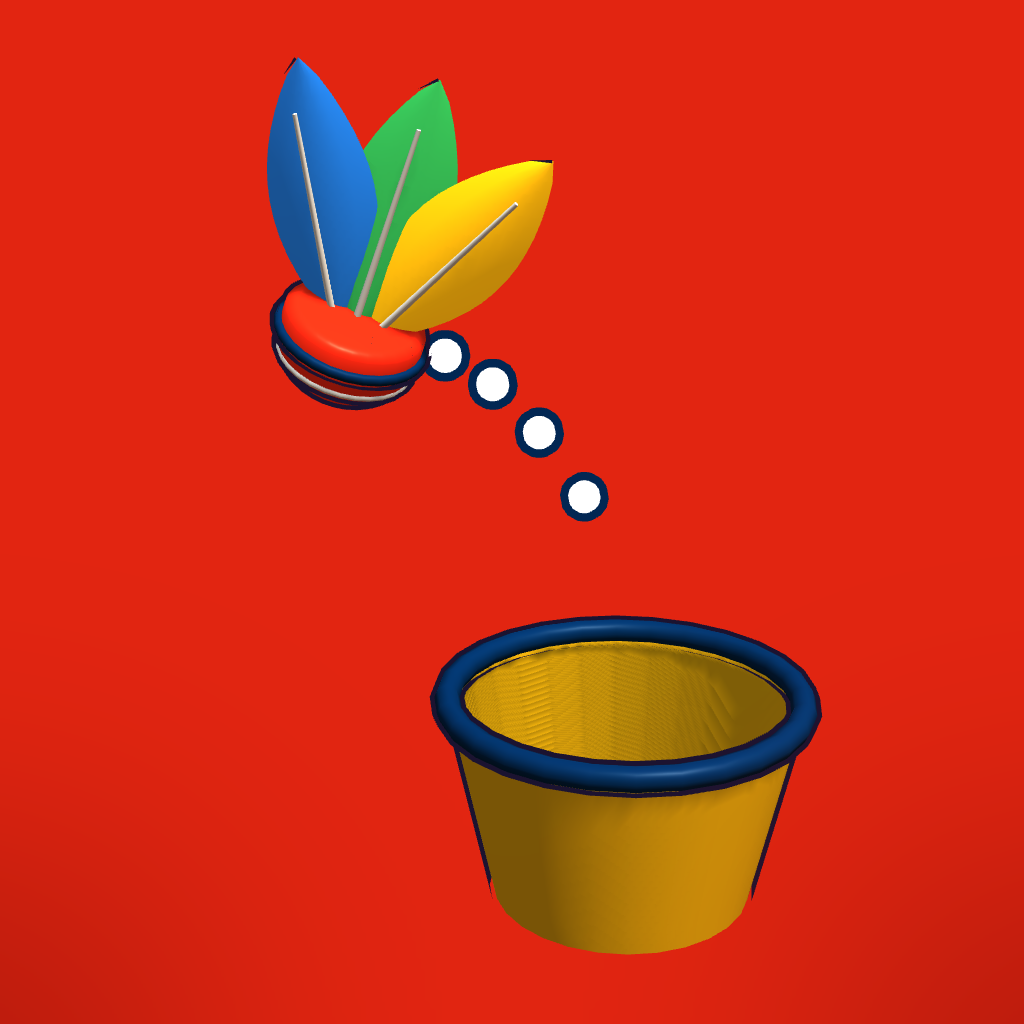
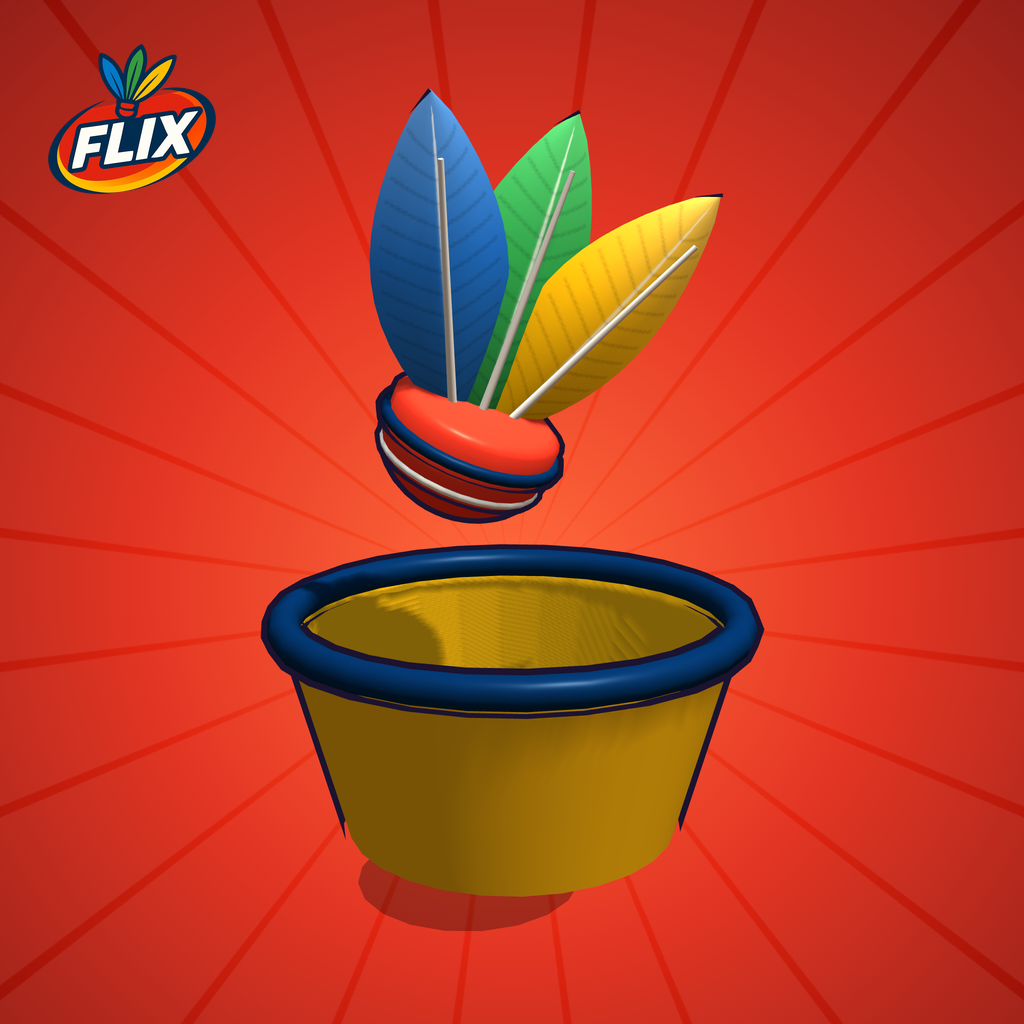
Flix Atış: uygulama simgesi ve App Store görselleri (TR/EN, 6.9 ve 6.5)
Claude-Session: https://claude.ai/code/session_01NZHKXGjep5VcQTYmRzsBXS

diff --git a/atis/app/store/appstore/kaynak/frame.html b/atis/app/store/appstore/kaynak/frame.html
@@ -1,0 +1,44 @@
+<!doctype html><html><head><meta charset="utf-8">
+<link href="https://fonts.googleapis.com/css2?family=Barlow+Condensed:wght@800;900&family=Inter:wght@500;600&display=block" rel="stylesheet">
+<style>
+*{margin:0;padding:0;box-sizing:border-box}
+body{width:430px;height:932px;overflow:hidden;font-family:Inter,sans-serif}
+#f{position:absolute;inset:0;overflow:hidden;background:#d81f10}
+.sun{position:absolute;left:50%;top:560px;width:1400px;height:1400px;margin:-700px 0 0 -700px;background:repeating-conic-gradient(from 0deg,rgba(255,255,255,.07) 0 9deg,transparent 9deg 18deg);border-radius:50%}
+.glow{position:absolute;inset:0;background:radial-gradient(ellipse at 50% 62%,rgba(255,190,40,.35),transparent 55%),linear-gradient(180deg,rgba(120,0,0,.25),transparent 30%,transparent 70%,rgba(80,0,10,.45))}
+.head{position:absolute;left:26px;right:26px;top:30px}
+.top{display:flex;justify-content:space-between;align-items:center;margin-bottom:16px}
+.top img{height:40px;filter:drop-shadow(0 2px 3px rgba(0,0,0,.3))}
+.k{font-size:11px;font-weight:600;letter-spacing:.16em;text-transform:uppercase;color:#ffc61a;background:#022753;border-radius:4px;padding:6px 10px;transform:skewX(-8deg)}
+.cap{font-family:'Barlow Condensed';font-weight:900;font-size:56px;line-height:.92;color:#fff;text-transform:uppercase;letter-spacing:.2px;text-shadow:0 3px 0 #8a0f05}
+.cap b{color:#ffc61a;font-weight:900}
+.sub{margin-top:12px;font-size:15px;font-weight:600;color:rgba(255,255,255,.92);line-height:1.38}
+.ph{position:absolute;left:50%;top:268px;width:356px;height:770px;margin-left:-178px;border-radius:56px;background:#05070f;padding:9px;box-shadow:0 0 0 3px #022753,0 0 0 6px #ffc61a,0 30px 60px rgba(60,0,0,.5)}
+.w{width:338px;height:732px;border-radius:47px;overflow:hidden;background:#0a1230}
+.w img{width:338px;display:block}
+</style></head><body>
+<div id="f"><div class="sun"></div><div class="glow"></div>
+<div class="head"><div class="top"><img src="logo.png"><span class="k" id="k"></span></div><div class="cap" id="c"></div><div class="sub" id="s"></div></div>
+<div class="ph"><div class="w"><img id="shot"></div></div></div>
+<script>
+const q=new URLSearchParams(location.search),N=+q.get('s'),L=q.get('l');document.documentElement.lang=L;
+const ORD={1:'1',2:'2',3:'7',4:'4',5:'5',6:'6',7:'6b',8:'8'};
+const T={tr:{1:['Flix Atış','Çek, nişan al,<br><b>kovaya at!</b>','Parmağını aşağı çek, gücü ayarla, FLIX’i kovaya fırlat.'],
+2:['Tüy aç','Havada<br><b>tüyünü aç</b>','Basılı tut, FLIX süzülsün. Rüzgârı ve köprüleri hesaba kat.'],
+3:['9 harita','9 harita,<br><b>180 bölüm</b>','Sokaktan Türkiye’ye, Asya’dan Antarktika’ya. Bölümlerin hepsi ücretsiz.'],
+4:['Amerika','Gökdelenler,<br><b>sarı taksiler</b>','Yangın merdivenleri ve neon tabelalar arasından kovayı bul.'],
+5:['Afrika','Savan köyü,<br><b>baobab ağaçları</b>','Kulübeler, akasyalar ve piramitler. Her harita kendi dünyası.'],
+6:['Uzay','Ayda<br><b>az yerçekimi</b>','Cam kubbeler, roketler, uzaylılar. FLIX çok daha uzağa uçar.'],
+7:['Antarktika','Buzda<br><b>sektir!</b>','İglolar ve kardan adamlar arasında duvardan sektirerek at.'],
+8:['Dükkân','Desenli FLIX’ler,<br><b>yeni kostümler</b>','20 FLIX, uçuş izleri, insan ve hayvan kostümleri.']},
+en:{1:['Flix Flick','Pull, aim,<br><b>flick it in!</b>','Pull down, set the power and launch FLIX into the bucket.'],
+2:['Glide','Open the<br><b>feathers</b>','Hold to glide. Mind the wind and the bridges.'],
+3:['9 worlds','9 worlds,<br><b>180 levels</b>','From the street to Türkiye, from Asia to Antarctica. Every level is free.'],
+4:['America','Skyscrapers,<br><b>yellow cabs</b>','Find the bucket between fire escapes and neon signs.'],
+5:['Africa','Savanna village,<br><b>baobab trees</b>','Huts, acacias and pyramids. Every world feels different.'],
+6:['Space','Low gravity<br><b>on the moon</b>','Glass domes, rockets and aliens. FLIX flies much further.'],
+7:['Antarctica','Bounce it<br><b>off the ice</b>','Bank your shots off walls between igloos and snowmen.'],
+8:['Shop','Patterned FLIX,<br><b>new outfits</b>','20 FLIX skins, flight trails, people and animal outfits.']}};
+const t=T[L][N];k.textContent=t[0];c.innerHTML=t[1];s.textContent=t[2];shot.src='sh/'+ORD[N]+'.png';
+while(c.offsetHeight>110){c.style.fontSize=(parseFloat(getComputedStyle(c).fontSize)-2)+'px'}
+</script></body></html>

diff --git a/atis/app/store/appstore/kaynak/cap.js b/atis/app/store/appstore/kaynak/cap.js
@@ -1,0 +1,34 @@
+const {chromium}=require('playwright');
+const W=390,H=844;
+(async()=>{const b=await chromium.launch({args:['--use-gl=angle','--use-angle=swiftshader','--enable-unsafe-swiftshader']});
+const p=await b.newPage({viewport:{width:W,height:H},deviceScaleFactor:2.6,hasTouch:false});
+p.on('pageerror',e=>console.log('ERR',e.message));
+await p.goto('file://'+__dirname+'/../test8.html',{waitUntil:'domcontentloaded'});await p.waitForTimeout(4000);
+await p.evaluate(()=>{const S=__A.SAVE;S.fe=2450;S.tut=1;S.tutDone=1;for(let i=0;i<9;i++){S.wOwn=S.wOwn||{};S.wOwn[i]=1;}for(let i=0;i<64;i++)S.lv[i]={done:1,s:i%4?3:2,best:2};S.world=0;});
+const sh=async n=>{await p.screenshot({path:`sh/${n}.png`});console.log('shot',n)};
+const start=async i=>{await p.evaluate(i=>{__A.startLevel(i);__A.P.intro=0;document.querySelectorAll('#tut').forEach(e=>e.hidden=true)},i);await p.waitForTimeout(2500);};
+const aim=async(dy,dx=0)=>{await p.mouse.move(W/2,H*0.55);await p.mouse.down();await p.mouse.move(W/2+dx/2,H*0.55+dy/2,{steps:4});await p.mouse.move(W/2+dx,H*0.55+dy,{steps:6});await p.waitForTimeout(500);};
+const fire=async()=>p.evaluate(()=>{const s=__A.solveShot(__A.P.from);__A.P.yaw=s.ang;window.__shoot? 0:0;return s});
+// 1 aim on a Sokak street
+await start(4); await aim(150,-8); await sh(1); await p.mouse.up(); await p.waitForTimeout(200);
+// 2 flight in Turkiye: aim then release, shoot mid-air
+await start(22); {const s=await p.evaluate(()=>{const s=__A.solveShot(__A.P.from);__A.P.yaw=s.ang;return s});
+ const full=Math.min(230,H*0.3); await p.mouse.move(W/2,H*0.5);await p.mouse.down();await p.mouse.move(W/2,H*0.5+16+s.pow*(full-16),{steps:8});await p.waitForTimeout(150);await p.mouse.up();await p.waitForTimeout(900);await sh(2);}
+// 3 win
+await start(0); await p.evaluate(()=>{document.getElementById('tut').hidden=true});
+for(let k=0;k<6;k++){ if(await p.evaluate(()=>__A.state())!=='play')break;
+ const s=await p.evaluate(()=>{const s=__A.solveShot(__A.P.from);__A.P.yaw=s.ang;return s});const full=Math.min(230,H*0.3);
+ await p.mouse.move(W/2,H*0.5);await p.mouse.down();await p.mouse.move(W/2,H*0.5+16+s.pow*(full-16),{steps:8});await p.waitForTimeout(150);await p.mouse.up();await p.waitForTimeout(600);
+ let won=false; for(let t=0;t<60;t++){await p.waitForTimeout(200);const r=await p.evaluate(()=>[__A.cam(),__A.state(),__A.P.phase]); if(r[0]==='win'&&!won){won=true;await p.waitForTimeout(900);await sh('3a');} if(r[1]==='end'){await p.waitForTimeout(1600);await sh(3);break;} if(r[2]==='aim'&&t>3)break;}
+ if(won)break;}
+// 4-6 worlds
+await start(44); await aim(120,20); await sh(4); await p.mouse.up(); await p.waitForTimeout(300);
+await start(121); await aim(130,-15); await sh(5); await p.mouse.up(); await p.waitForTimeout(300);
+await start(162); await aim(140,10); await sh(6); await p.mouse.up(); await p.waitForTimeout(300);
+await start(142); await aim(110,0); await sh('6b'); await p.mouse.up(); await p.waitForTimeout(300);
+await start(83); await aim(110,0); await sh('6c'); await p.mouse.up(); await p.waitForTimeout(300);
+// 7 levels screen with world tabs
+await p.evaluate(()=>{__A.SAVE.world=1;__A.openLevels()}); await p.waitForTimeout(1500); await sh(7);
+// 8 shop
+await p.evaluate(()=>{__A.openShop('skin')}); await p.waitForTimeout(2500); await sh(8);
+await b.close();})();

diff --git a/atis/app/store/appstore/kaynak/icon.js b/atis/app/store/appstore/kaynak/icon.js
@@ -1,0 +1,30 @@
+const {chromium}=require('playwright');
+(async()=>{const b=await chromium.launch({args:['--use-gl=angle','--use-angle=swiftshader','--enable-unsafe-swiftshader']});
+const p=await b.newPage({viewport:{width:512,height:512},deviceScaleFactor:2});
+p.on('pageerror',e=>console.log('ERR',e.message));
+await p.goto('file://'+__dirname+'/../test8.html',{waitUntil:'domcontentloaded'});await p.waitForTimeout(4000);
+for(const v of ['A','B','C']){
+await p.evaluate((v)=>{
+ const X=__A.X,T=THREE;__A.startLevel(3);__A.P.intro=0;
+ document.querySelectorAll('body > *').forEach(e=>{if(!e.querySelector||!e.querySelector('canvas'))e.style.visibility='hidden'});
+ const bk=X.bucket; X.world.children.forEach(c=>{c.visible=false}); bk.g.visible=true; X.scene.fog.near=500;X.scene.fog.far=900;
+ X.scene.children.forEach(c=>{if(c.isMesh&&c!==X.toyRoot&&c.geometry&&c.geometry.type==='CircleGeometry')c.visible=false});
+ const cv=document.createElement('canvas');cv.width=cv.height=1024;const x=cv.getContext('2d');
+ const g=x.createRadialGradient(512,600,40,512,560,760);g.addColorStop(0,v==='B'?'#ffd23a':'#ff5a2a');g.addColorStop(0.45,v==='B'?'#ff8a1a':'#e22511');g.addColorStop(1,v==='B'?'#e22511':'#8a0c05');x.fillStyle=g;x.fillRect(0,0,1024,1024);
+ x.translate(512,600);for(let i=0;i<24;i++){x.rotate(Math.PI/12);x.fillStyle='rgba(255,255,255,.08)';x.beginPath();x.moveTo(0,0);x.lineTo(900,-110);x.lineTo(900,110);x.fill();}
+ window.__BG=new T.CanvasTexture(cv);
+ window.__STOP=1;
+ const tr=X.toyRoot, bp=new T.Vector3(bk.x,bk.y,bk.z);
+ bk.flag.visible=false; bk.g.children.forEach(c=>{if(c.geometry&&c.geometry.type==='CylinderGeometry'&&c.position.x>0.5)c.visible=false});
+ if(bk.beam)bk.beam.visible=false; if(bk.glow)bk.glow.visible=false;
+ const cfg={A:[-0.15,1.45,0.1,0.35,-0.45],B:[0.1,1.35,0.2,0.25,0.3],C:[0.0,1.25,0.0,0.15,-0.15]}[v];
+ tr.position.set(bp.x+cfg[0],bp.y+cfg[1],bp.z+cfg[2]); tr.rotation.set(cfg[3],0.4,cfg[4]); window.__TR=[tr.position.clone(),cfg];
+ const cam=X.camera; cam.aspect=1; cam.fov=v==='C'?38:42; cam.updateProjectionMatrix();
+ cam.position.set(bp.x+0.8,bp.y+2.2,bp.z+4.7); window.__camFix=[cam.position.clone(),new T.Vector3(bp.x,bp.y+1.2,bp.z)];
+},v);
+await p.waitForTimeout(400);
+// keep our camera: the game loop moves it each frame, so render once ourselves
+const data=await p.evaluate(()=>{const X=__A.X;X.scene.background=window.__BG;const [tp,cf]=window.__TR;X.toyRoot.position.copy(tp);X.toyRoot.rotation.set(cf[3],0.4,cf[4]);X.toyRoot.updateMatrixWorld(true);const [cp,lk]=window.__camFix;X.camera.position.copy(cp);X.camera.lookAt(lk);X.renderer.setSize(1024,1024,false);X.renderer.render(X.scene,X.camera);return X.renderer.domElement.toDataURL('image/png')});
+require('fs').writeFileSync('icon_'+v+'_raw.png',Buffer.from(data.split(',')[1],'base64'));console.log('icon',v);
+}
+await b.close();})();

diff --git a/atis/app/store/appstore/kaynak/r.js b/atis/app/store/appstore/kaynak/r.js
@@ -1,0 +1,2 @@
+const {chromium}=require('playwright');(async()=>{const b=await chromium.launch();const p=await b.newPage({viewport:{width:430,height:932},deviceScaleFactor:3});
+for(const l of ['tr','en'])for(let i=1;i<=8;i++){await p.goto('file://'+__dirname+`/frame.html?s=${i}&l=${l}`);await p.evaluate(()=>document.fonts.ready);await p.waitForFunction(()=>document.getElementById('shot').complete);await p.waitForTimeout(150);await p.screenshot({path:`out/${l}_${i}.png`});}await b.close()})()
